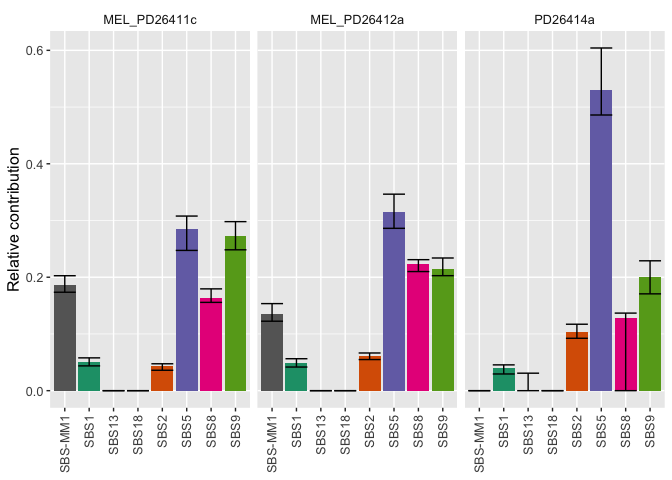
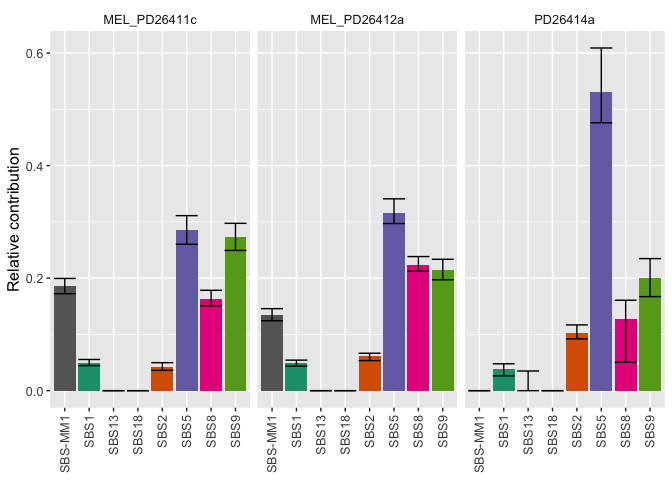
workaround bug in strandbias function

diff --git a/README.md b/README.md
@@ -33,6 +33,27 @@ This is a basic example which shows mmsig usage
 
 ``` r
 library(mmsig)
+library(BSgenome.Hsapiens.UCSC.hg19)
+#> Loading required package: BSgenome
+#> Loading required package: S4Vectors
+#> Loading required package: stats4
+#> 
+#> Attaching package: 'S4Vectors'
+#> The following object is masked from 'package:base':
+#> 
+#>     expand.grid
+#> Loading required package: IRanges
+#> Loading required package: GenomeInfoDb
+#> Loading required package: GenomicRanges
+#> Loading required package: Biostrings
+#> Loading required package: XVector
+#> 
+#> Attaching package: 'Biostrings'
+#> The following object is masked from 'package:base':
+#> 
+#>     strsplit
+#> Loading required package: rtracklayer
+
 
 data(mm_5_col)
 data(signature_ref)
@@ -89,7 +110,7 @@ sig_out <- mm_fit_signatures(muts.input=mm_5_col_subset,
                              sig.input=sig_ref,
                              input.format = "vcf",
                              sample.sigt.profs = NULL, 
-                             strandbias = FALSE,
+                             strandbias = TRUE,
                              bootstrap = TRUE,
                              iterations = 20, # 1000 iterations recommended for stable results
                              refcheck=TRUE,
@@ -120,5 +141,9 @@ bootSigsPlot(sig_out$bootstrap)
 ## Transcriptional strand bias for SBS-MM1
 
 ``` r
-#head(sig_out$strand_bias_mm1)
+head(sig_out$strand_bias_mm1)
+#>          group transcribed untranscribed     ratio         p_poisson MM1_flag
+#> 1 MEL_PD26411c         192           119 1.6134454 0.000000000680776        *
+#> 2 MEL_PD26412a         193           148 1.3040541 0.000399079744422        *
+#> 3     PD26414a          29            30 0.9666667 1.000000000000000
 ```
